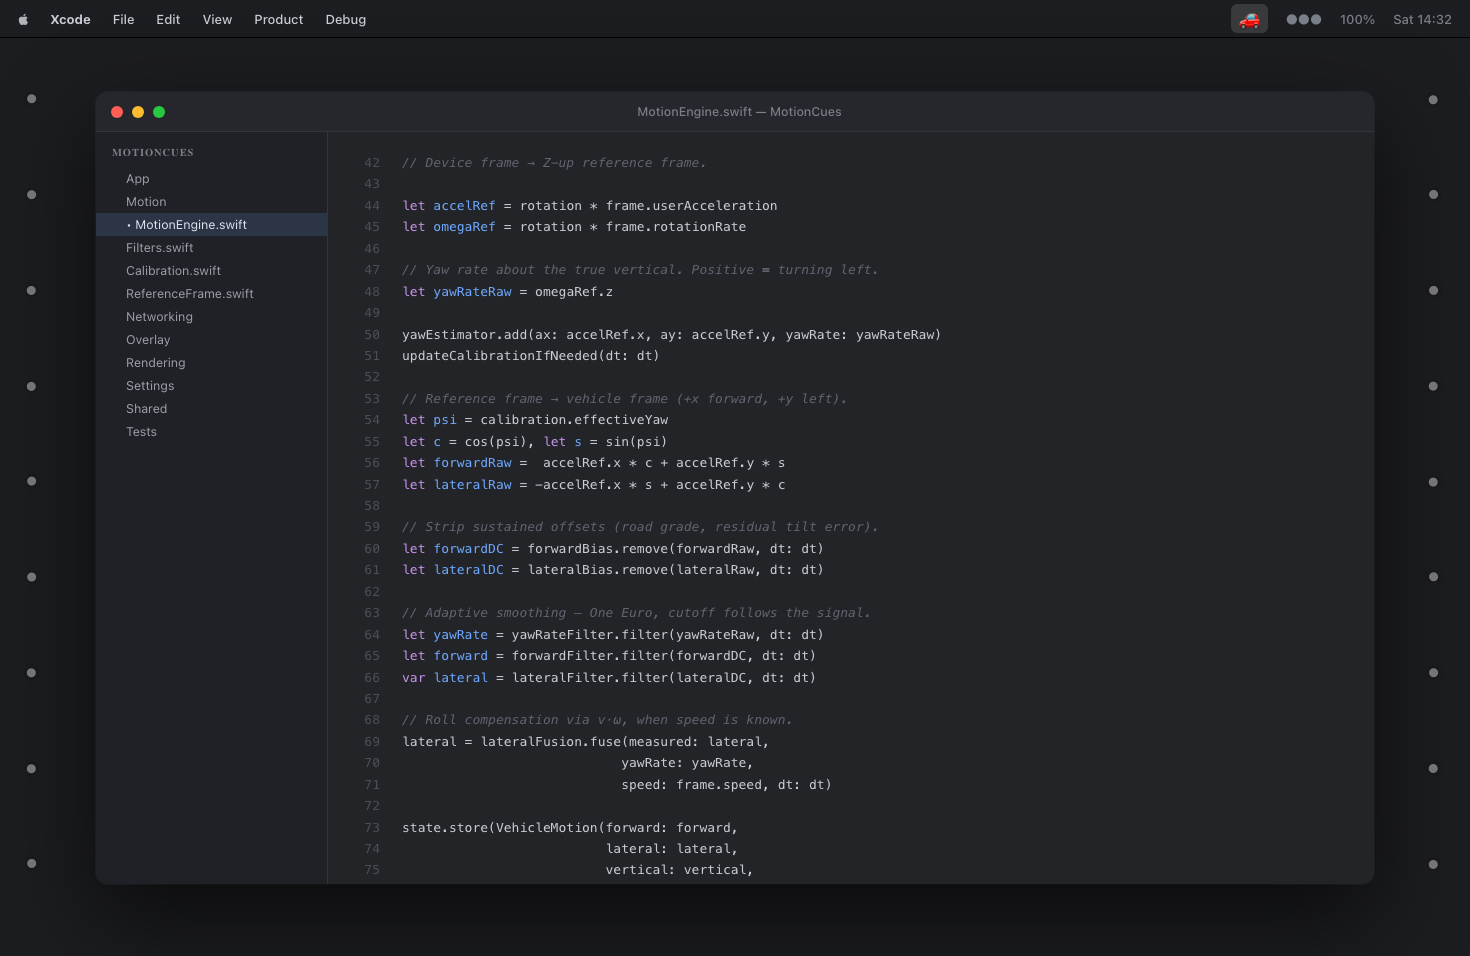
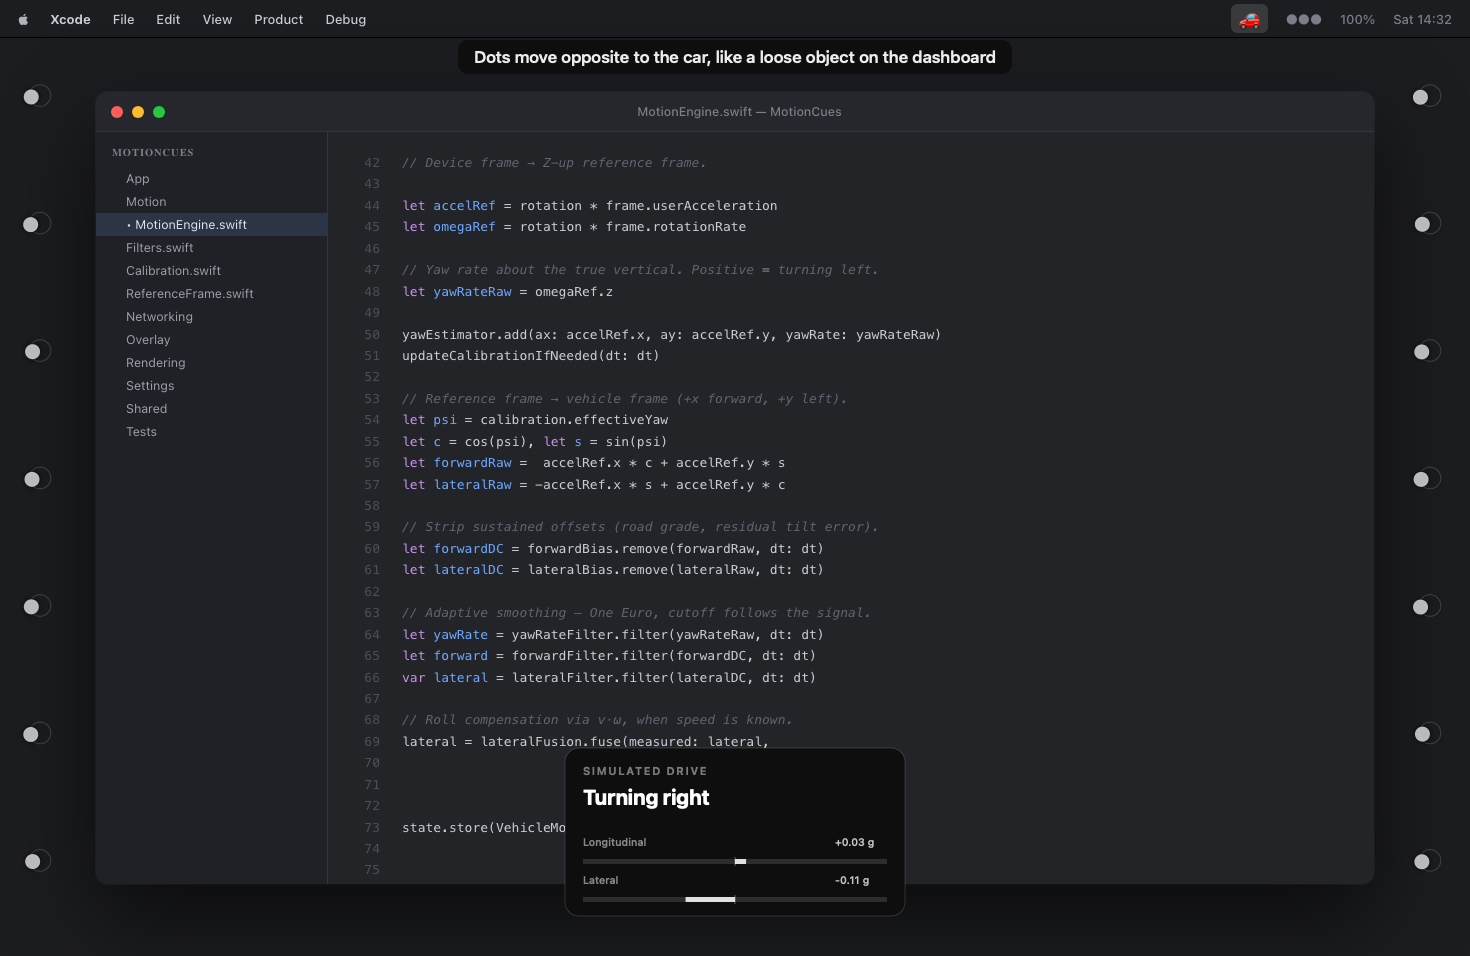
feat(tools): make the demo legible
The first cut did not survive contact with a timeline: 9 pt dots at 45 %
opacity moving ~20 px, compressed to 1280 wide and autoplaying, and nothing
in frame said what any of it was.

- Dots 15 pt at 95 % opacity, 7 per edge. The gain is untouched at the app's
  real High setting — easier to see, not moving further than they really do.
- Faint rings at each dot's rest position, so displacement can be read rather
  than remembered.
- A state panel (Braking / Accelerating / Turning) with the longitudinal and
  lateral values, driven by the same VehicleMotion the dots are, so it cannot
  disagree with them. Opaque, because at 95 % the editor text behind it bled
  through and tangled with the labels.
- Title and end cards, so the clip explains itself to someone scrolling past.

Annotations live in Tools/DemoRenderer/Annotations.swift and are demo-only;
none of it exists in the app. No app code changed in this commit.

diff --git a/Tools/DemoRenderer/Annotations.swift b/Tools/DemoRenderer/Annotations.swift
@@ -1,0 +1,150 @@
+//
+//  Annotations.swift
+//
+//  Demo-only overlay drawn on top of the real dots.
+//
+//  None of this exists in the app. It is here because a 24-second clip of
+//  small grey dots, compressed and autoplaying at timeline size, does not
+//  explain itself: you cannot tell what the dots are, what they are tracking,
+//  or that they moved at all.
+//
+//  Two annotations, both honest:
+//
+//  * Rest-position ticks. A faint mark at each dot's home position, so the
+//    displacement is legible instead of having to be remembered. The dots
+//    themselves are not exaggerated — the gain is the app's real High setting,
+//    80 pt per g. The ticks give the eye a reference; they do not inflate the
+//    motion.
+//  * A state panel driven by the *same* `VehicleMotion` the dots are driven
+//    by. It cannot disagree with them, because it is the same numbers.
+//
+
+import AppKit
+
+enum Annotations {
+
+    // MARK: - Rest-position ticks
+
+    /// A faint ring at each dot's home position.
+    static func drawRestMarks(_ positions: [DotPosition], diameter: CGFloat, in ctx: CGContext) {
+        ctx.saveGState()
+        ctx.setStrokeColor(NSColor.white.withAlphaComponent(0.16).cgColor)
+        ctx.setLineWidth(1)
+        for p in positions {
+            let r = diameter * 0.72
+            ctx.strokeEllipse(in: CGRect(x: p.home.x - r, y: p.home.y - r, width: r * 2, height: r * 2))
+        }
+        ctx.restoreGState()
+    }
+
+    // MARK: - State panel
+
+    /// Bottom-left panel: what the simulated car is doing right now, in the
+    /// same units the engine works in.
+    static func drawPanel(motion: VehicleMotion, in ctx: CGContext, canvas: CGSize) {
+        // Bottom-centre: the dot columns own both margins, and covering one
+        // of them with the explanation would be self-defeating.
+        let w: CGFloat = 340, h: CGFloat = 168
+        let rect = CGRect(x: (canvas.width - w) / 2, y: 40, width: w, height: h)
+
+        ctx.saveGState()
+        let path = CGPath(roundedRect: rect, cornerWidth: 14, cornerHeight: 14, transform: nil)
+        ctx.addPath(path)
+        // Fully opaque. At 95 % the editor text behind still showed through
+        // enough to tangle with the panel's own labels.
+        ctx.setFillColor(NSColor(white: 0.055, alpha: 1.0).cgColor)
+        ctx.fillPath()
+        ctx.addPath(path)
+        ctx.setStrokeColor(NSColor.white.withAlphaComponent(0.14).cgColor)
+        ctx.setLineWidth(1)
+        ctx.strokePath()
+
+        text("SIMULATED DRIVE", at: CGPoint(x: rect.minX + 18, y: rect.maxY - 30),
+             size: 11, weight: .semibold, color: NSColor.white.withAlphaComponent(0.45),
+             tracking: 1.6, in: ctx)
+
+        text(label(for: motion), at: CGPoint(x: rect.minX + 18, y: rect.maxY - 62),
+             size: 21, weight: .bold, color: .white, in: ctx)
+
+        bar("Longitudinal", motion.forward,
+            at: CGPoint(x: rect.minX + 18, y: rect.minY + 52), width: w - 36, in: ctx)
+        bar("Lateral", motion.lateral,
+            at: CGPoint(x: rect.minX + 18, y: rect.minY + 14), width: w - 36, in: ctx)
+
+        ctx.restoreGState()
+    }
+
+    /// Hysteresis-free but deliberately coarse: below 0.04 g nothing worth
+    /// naming is happening, and the label should not flicker on noise.
+    private static func label(for m: VehicleMotion) -> String {
+        let f = m.forward, l = m.lateral
+        if abs(f) < 0.04 && abs(l) < 0.04 { return "Cruising" }
+        if abs(f) >= abs(l) { return f > 0 ? "Accelerating" : "Braking" }
+        return l > 0 ? "Turning left" : "Turning right"
+    }
+
+    private static func bar(_ title: String, _ value: Double,
+                            at origin: CGPoint, width: CGFloat, in ctx: CGContext) {
+        text(title, at: CGPoint(x: origin.x, y: origin.y + 15),
+             size: 10.5, weight: .medium, color: NSColor.white.withAlphaComponent(0.5), in: ctx)
+        text(String(format: "%+.2f g", value), at: CGPoint(x: origin.x + width - 52, y: origin.y + 15),
+             size: 10.5, weight: .medium, color: NSColor.white.withAlphaComponent(0.75), in: ctx)
+
+        let track = CGRect(x: origin.x, y: origin.y, width: width, height: 5)
+        ctx.setFillColor(NSColor.white.withAlphaComponent(0.13).cgColor)
+        ctx.fill(track)
+
+        // Centre-out fill, saturating at 0.35 g — a firm manoeuvre.
+        let mid = track.midX
+        let frac = CGFloat(max(-1, min(1, value / 0.35)))
+        let half = width / 2
+        let bar = CGRect(x: frac >= 0 ? mid : mid + frac * half,
+                         y: origin.y, width: abs(frac) * half, height: 5)
+        ctx.setFillColor(NSColor.white.withAlphaComponent(0.85).cgColor)
+        ctx.fill(bar)
+
+        ctx.setFillColor(NSColor.white.withAlphaComponent(0.35).cgColor)
+        ctx.fill(CGRect(x: mid - 0.5, y: origin.y - 2, width: 1, height: 9))
+    }
+
+    // MARK: - Caption
+
+    static func drawCaption(_ string: String, in ctx: CGContext, canvas: CGSize) {
+        let font = NSFont.systemFont(ofSize: 17, weight: .medium)
+        let attrs: [NSAttributedString.Key: Any] = [
+            .font: font, .foregroundColor: NSColor.white.withAlphaComponent(0.92)
+        ]
+        let s = NSAttributedString(string: string, attributes: attrs)
+        let size = s.size()
+        let pad: CGFloat = 16
+        let rect = CGRect(x: (canvas.width - size.width) / 2 - pad,
+                          y: canvas.height - 74,
+                          width: size.width + pad * 2, height: size.height + 14)
+        ctx.saveGState()
+        ctx.addPath(CGPath(roundedRect: rect, cornerWidth: 10, cornerHeight: 10, transform: nil))
+        ctx.setFillColor(NSColor(white: 0.055, alpha: 1.0).cgColor)
+        ctx.fillPath()
+        draw(s, at: CGPoint(x: rect.minX + pad, y: rect.minY + 7), in: ctx)
+        ctx.restoreGState()
+    }
+
+    // MARK: - Text helpers
+
+    private static func text(_ string: String, at point: CGPoint, size: CGFloat,
+                             weight: NSFont.Weight, color: NSColor,
+                             tracking: CGFloat = 0, in ctx: CGContext) {
+        var attrs: [NSAttributedString.Key: Any] = [
+            .font: NSFont.systemFont(ofSize: size, weight: weight),
+            .foregroundColor: color
+        ]
+        if tracking != 0 { attrs[.kern] = tracking }
+        draw(NSAttributedString(string: string, attributes: attrs), at: point, in: ctx)
+    }
+
+    private static func draw(_ s: NSAttributedString, at point: CGPoint, in ctx: CGContext) {
+        let previous = NSGraphicsContext.current
+        NSGraphicsContext.current = NSGraphicsContext(cgContext: ctx, flipped: false)
+        s.draw(at: point)
+        NSGraphicsContext.current = previous
+    }
+}

diff --git a/Tools/DemoRenderer/main.swift b/Tools/DemoRenderer/main.swift
@@ -61,10 +61,14 @@ try? FileManager.default.createDirectory(at: outputDir, withIntermediateDirector
 // MARK: - The real pipeline
 
 var settings = RenderSettings()
-settings.dotsPerEdge = 9
-settings.dotDiameter = 9
-settings.opacity = 0.62
-settings.edgeInset = 34
+// Bigger and more opaque than the app's defaults, because a 9 pt dot at 45%
+// opacity disappears in a compressed, autoplaying timeline video. The *gain*
+// is untouched at the app's real High setting — the dots are easier to see,
+// they do not move further than they really would.
+settings.dotsPerEdge = 7
+settings.dotDiameter = 15
+settings.opacity = 0.95
+settings.edgeInset = 40
 settings.gain = CueIntensity.high.gain     // disclosed in the alt text
 settings.placement = .sides
 settings.appearance = .dark                // light dots, this backdrop is dark
@@ -139,7 +143,13 @@ for frameIndex in 0..<(warmupFrames + totalFrames) {
     ctx.draw(backdropCG, in: CGRect(origin: .zero, size: pixelSize))
     ctx.saveGState()
     ctx.scaleBy(x: scale, y: scale)
+    // Rest-position marks first, so the dots sit on top of their own reference.
+    Annotations.drawRestMarks(DotLayout.positions(in: pointSize, settings: settings),
+                              diameter: CGFloat(settings.dotDiameter), in: ctx)
     root.render(in: ctx)
+    Annotations.drawPanel(motion: motion, in: ctx, canvas: pointSize)
+    Annotations.drawCaption("Dots move opposite to the car, like a loose object on the dashboard",
+                            in: ctx, canvas: pointSize)
     ctx.restoreGState()
 
     guard let image = ctx.makeImage() else { continue }

diff --git a/Tools/Backdrop/end.html b/Tools/Backdrop/end.html
@@ -1,0 +1,17 @@
+<!doctype html><html><head><meta charset="utf-8"><style>
+*{margin:0;padding:0;box-sizing:border-box}
+html,body{width:1470px;height:956px}
+body{background:#111216;color:#fff;display:flex;flex-direction:column;
+ align-items:center;justify-content:center;gap:22px;
+ font-family:-apple-system,system-ui,"Helvetica Neue",sans-serif;text-align:center}
+h1{font-size:58px;font-weight:700;letter-spacing:-1.2px}
+p{font-size:26px;color:#a9aeb9}
+code{font:600 30px ui-monospace,"SF Mono",Menlo,monospace;color:#7aa7ff}
+.row{display:flex;gap:16px;margin-top:8px}
+.pill{border:1px solid #2e313a;border-radius:999px;padding:9px 20px;font-size:17px;color:#9aa0ab}
+</style></head><body>
+<h1>MotionCues</h1>
+<p>Free and open source &middot; Swift &middot; MIT</p>
+<code>github.com/mcpeixoto/MotionCues</code>
+<div class="row"><span class="pill">No telemetry</span><span class="pill">No cloud</span><span class="pill">No dependencies</span></div>
+</body></html>

diff --git a/Tools/Backdrop/title.html b/Tools/Backdrop/title.html
@@ -1,0 +1,15 @@
+<!doctype html><html><head><meta charset="utf-8"><style>
+*{margin:0;padding:0;box-sizing:border-box}
+html,body{width:1470px;height:956px}
+body{background:#111216;color:#fff;display:flex;flex-direction:column;
+ align-items:center;justify-content:center;gap:26px;
+ font-family:-apple-system,system-ui,"Helvetica Neue",sans-serif;text-align:center}
+h1{font-size:66px;font-weight:700;letter-spacing:-1.6px;line-height:1.08}
+h1 em{font-style:normal;color:#7aa7ff}
+p{font-size:27px;color:#a9aeb9;font-weight:400;max-width:1000px;line-height:1.45}
+.tag{font-size:15px;letter-spacing:.22em;text-transform:uppercase;color:#6a6f7b;font-weight:600}
+</style></head><body>
+<div class="tag">MotionCues &mdash; macOS</div>
+<h1>Working in a moving car<br>makes you <em>sick</em>.</h1>
+<p>Your eyes see a still screen. Your inner ear feels the corners.<br>Dots at the edges of the screen close the gap.</p>
+</body></html>

diff --git a/README.md b/README.md
@@ -18,8 +18,11 @@ direct link to your own iPhone.
 > nonetheless the genuine output of the shipping `MotionEngine` and
 > `LayerDotRenderer`, rendered offline frame by frame; only the desktop behind
 > the dots is a mockup. Intensity is set to High so the movement survives video
-> compression. See [Tools/README.md](Tools/README.md) for exactly how it is
-> generated, and regenerate it yourself in three commands.
+> compression, and the faint rings mark each dot's rest position so the
+> displacement is legible — the dots are easier to see, they do not travel
+> further than they really would. The state panel is driven by the same
+> `VehicleMotion` the dots are. See [Tools/README.md](Tools/README.md) for
+> exactly how it is generated, and regenerate it yourself in three commands.
 
 > **Status:** works, and every claim in this README was measured rather than
 > assumed. It is a personal project: there are no signed or notarised builds,
